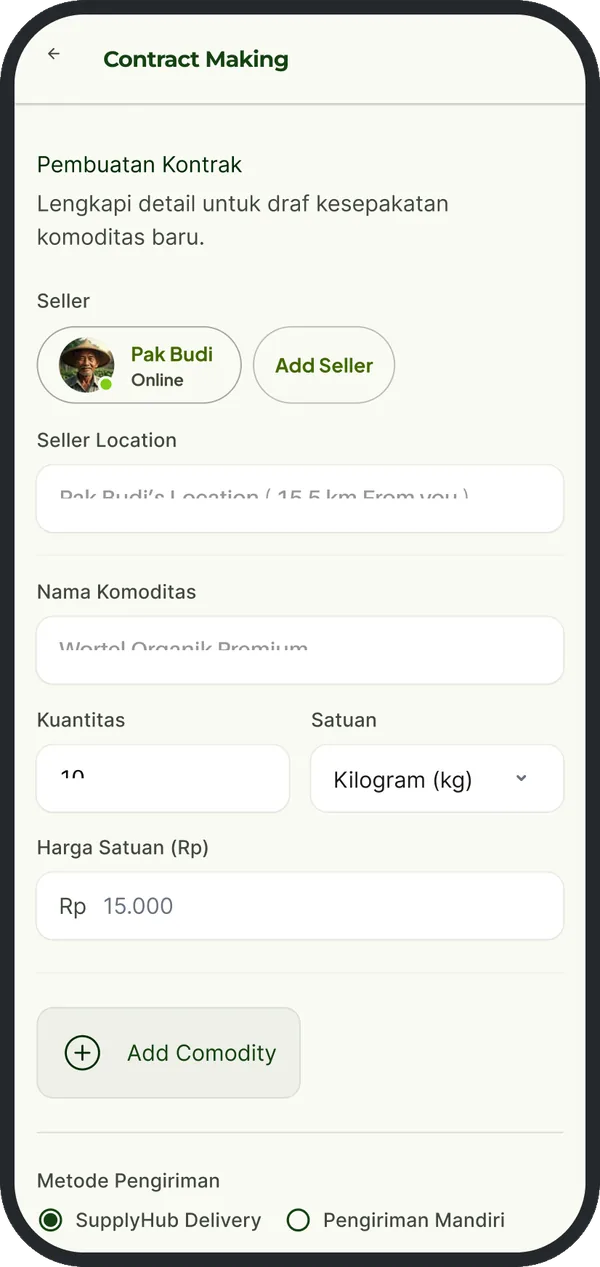
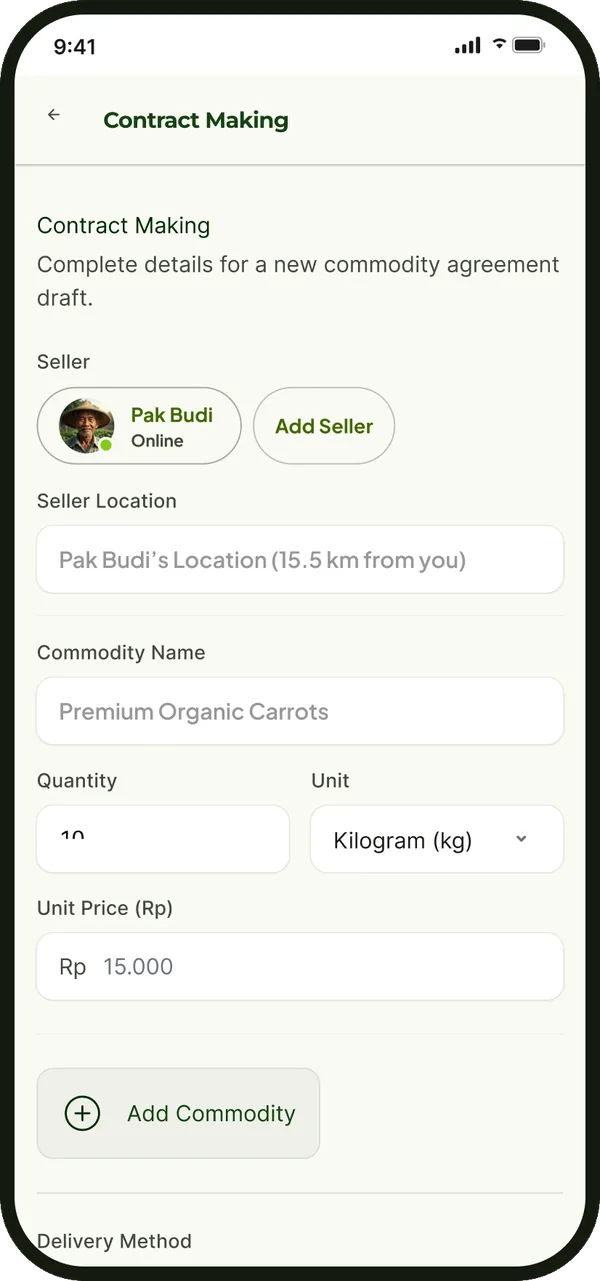
feat: SupplyHub screens from the cleaned Figma, disclose AI prototype
- Replace the 8 phone images with exports from the "Redesign · Clean"
  page: English copy matching the prototype, 2026 dates, uniform
  status bar, fixed sample data
- AI use now states that the HTML prototype was built by an AI
  generator from the team's Figma screens

diff --git a/src/content/caseStudies/supplyHub.js b/src/content/caseStudies/supplyHub.js
@@ -8,13 +8,17 @@
 //   - durasi 1 bulan (dikonfirmasi Brian)
 //   - onboarding didesain anggota tim; sisanya modul Brian
 //   - foto produk: generate AI atau hasil pencarian web
+//   - prototype HTML dibuat dengan AI generator (Google Stitch) dari
+//     screen Figma; desain dan flow tetap dari tim
 //
 // Angka masalah diambil dari brief ID FOOD, bukan dari deck tim.
 // Deck punya angka yang tidak konsisten (TAM USD 140M vs industri
 // USD 101 miliar, klaim "memangkas waste 30–40%" tanpa bukti),
 // jadi dampak hanya ditulis sebagai target.
 //
-// Gambar: page "Web export" di file Figma I-Love-Binus, WebP 600px.
+// Gambar: page "Web export" (frame sh2-*) di file Figma I-Love-Binus,
+// diambil dari page "Redesign · Clean" yang sudah disamakan dengan
+// prototype. WebP 600px.
 // BPMN: halaman 11–12 deck pitch, digabung jadi satu.
 
 const phone = (name, alt, label) => ({
@@ -22,7 +26,7 @@ const phone = (name, alt, label) => ({
   alt,
   label,
   width: 600,
-  height: 1267,
+  height: 1281,
 });
 
 export const supplyHub = {
@@ -42,7 +46,7 @@ export const supplyHub = {
     { key: "Team", value: "3 people" },
     { key: "Result", value: "Participant · did not place" },
     { key: "Research", value: "Secondary data only · no user interviews" },
-    { key: "AI use", value: "Layout exploration and part of the product imagery; other photos are web placeholders" },
+    { key: "AI use", value: "Layout exploration, part of the product imagery, and the HTML prototype, which an AI generator built from our Figma screens; other photos are web placeholders" },
   ],
 
   links: [
